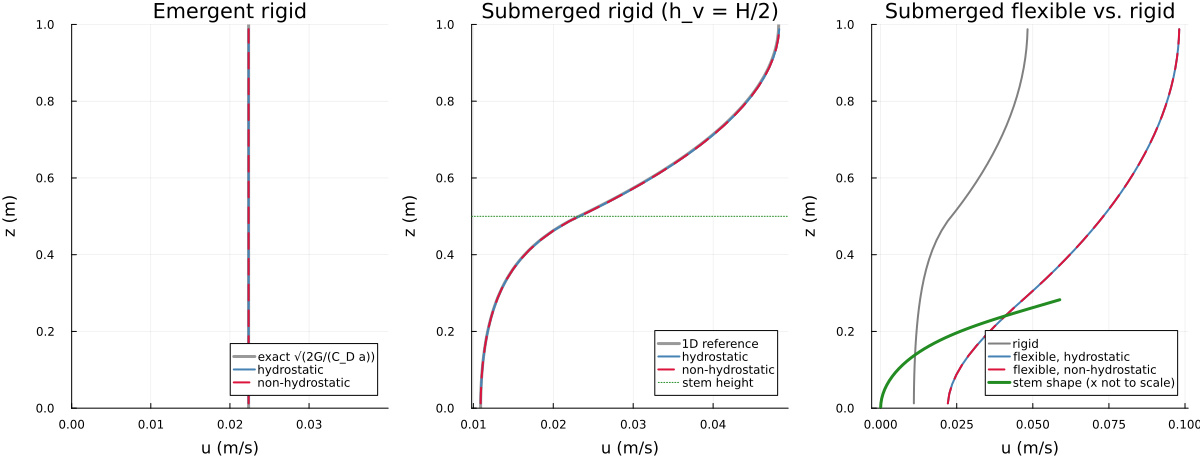
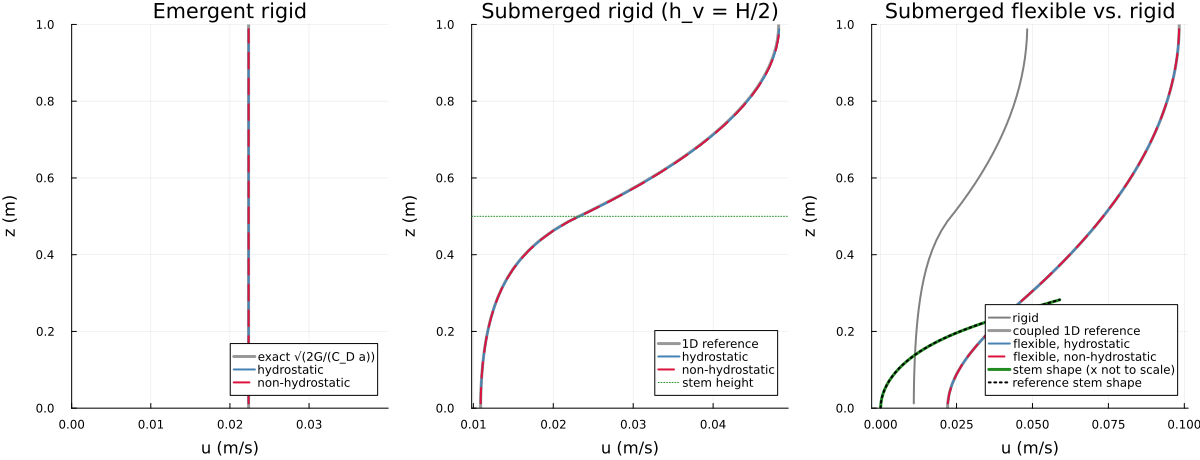
Vegetation: validate flexible stems against independent references
- elastica_reference_uniform (experiments/vegetation/cases.jl): the
  continuous elastica of a stem in a uniform current, integrated from the
  free tip with RK4 and shooting on the tip angle. The model's discrete
  elastica converges to it at second order for drag and tip position;
  within 0.9 % at 80 segments over Ca = 0.1 ... 1e4 (B <= 10), 0.4 % for
  B = 100 up to Ca = 3162. Test test_verify_elastica_against_independent_reference.
- flexible_canopy_reference: coupled 1D reference for a flexible canopy in a
  periodic channel (elastica in the velocity along the stem, iterated with
  the 1D momentum equation). The model matches it to 0.017 % in velocity and
  0.1 mm in tip position at steady state; errors converge with the grid.
  Test test_validate_flexible_canopy_against_coupled_reference.
- Posture solver: load continuation when Newton fails (it did from an upright
  stem at Ca >~ 3000) and a counter of non-converged postures
  (VegetationModel.posture_failures).
- Reconfiguration and channel figures show the references; README, plan and
  test documentation updated.

diff --git a/experiments/vegetation/README.md b/experiments/vegetation/README.md
@@ -48,6 +48,14 @@ Ca = ρ C_D b U² l³ / (2 EI) and the buoyancy number B = B_l l³ / EI.
   2010). The slope between Ca = 300 and 3000 is −0.333, and R Ca^(1/3) = 0.89. This is consistent with the asymptotic
   effective length of about 0.9 Ca^(−1/3) in Luhar & Nepf (2011); the coefficient is still to be checked against the
   paper.
+- **Independent reference** (points and dotted shapes in the figure): the continuous elastica, integrated from the free
+  tip with RK4 and shooting on the tip angle (`elastica_reference_uniform` in `cases.jl`). This is a different method
+  from the model's discrete segments and Newton solve. The model converges to it at second order in the number of
+  segments for the drag and the tip position. With 80 segments it agrees within 0.9 % over Ca = 0.1-10⁴ (B ≤ 10), and
+  within 0.4 % for B = 100 up to Ca = 3162; beyond that the shooting reference is badly conditioned. The reference gives
+  R Ca^(1/3) = 0.890 at large Ca.
+- **Robustness:** from an upright stem at Ca ≳ 3000 Newton alone did not converge. The posture solver now applies the
+  load in stages when Newton fails, and counts postures that still fail (`VegetationModel.posture_failures`).
 - **Buoyancy:** it keeps the stem upright until Ca exceeds roughly B and leaves the large-Ca asymptote unchanged, as
   described by Luhar & Nepf (2011).
 
@@ -69,6 +77,14 @@ Ca = ρ C_D b U² l³ / (2 EI) and the buoyancy number B = B_l l³ / EI.
   0.28 m of their 0.50 m length. The canopy offers less drag, so the depth-mean velocity is 0.067 m/s instead of
   0.027 m/s for the rigid canopy. In the steady state the total drag of a flexible patch balances the driving force
   (test `test_verify_flexible_patch_momentum_balance`: to 10⁻⁶ after 1400 s).
+- **Flexible canopy against an independent coupled reference** (`flexible_canopy_reference` in `cases.jl`): the
+  continuous elastica in the velocity along the stem, iterated with the 1D momentum equation, whose canopy drag is
+  1/2 C_D a cos²θ(z) u|u| below the tip height, until posture and profile are steady. Run from rest to the steady
+  state (7000 s; the posture-flow feedback makes the flexible canopy adjust about twice as slowly as the rigid one),
+  the model matches it in both modes: velocity within 1.7·10⁻⁵ m/s (0.017 % of the surface velocity), stem tip at
+  (0.3770, 0.2824) m against (0.3769, 0.2825) m. Started from the reference state, the errors converge with the grid:
+  5.4·10⁻⁵ and 1.6·10⁻⁵ m/s, tip (0.67, 0.60) mm and (0.16, 0.13) mm for nz = 20 and 40
+  (test `test_validate_flexible_canopy_against_coupled_reference`).
 - **Individual stems vs. patch:** 25 rigid stems at random positions, with the lateral spacing of the patch density,
   give the patch velocity to 10⁻⁶ (test `test_verify_individual_stems_match_patch`).
 
@@ -203,14 +219,17 @@ Scripts
 -------
 
 - `plot_vegetation_reconfiguration.jl`: single flexible stem, R(Ca); a few seconds.
-- `plot_vegetation_channel.jl`: periodic channel references and grid convergence; about 3 min.
+- `plot_vegetation_channel.jl`: periodic channel references (rigid and flexible) and grid convergence; about 12 min.
 - `plot_vegetation_patch.jl`: head loss and the flexible-patch animation; about 1 min.
 - `plot_vegetation_waves.jl`: wave damping against Dalrymple et al. (1984); about 20 min.
 - `plot_vegetation_lock_exchange.jl`: lock exchange through canopies over the whole tank, front scaling; about 10 min.
 - `plot_vegetation_lock_exchange_canopies.jl`: lock exchange into vegetation in the right half, patches and individual
   rigid and flexible stems, vegetation drawn; about 35 min.
-- `cases.jl`: shared settings and references: the 1D canopy profile, the reconfiguration helper, the wave flume with
-  Dalrymple's decay coefficient, the canopy lock exchange (also used by the tests).
+- `cases.jl`: shared settings and references (also used by the tests):
+  - the rigid 1D canopy profile and the coupled flexible canopy reference;
+  - the reconfiguration helper and the independent elastica reference;
+  - the wave flume with Dalrymple's decay coefficient;
+  - the canopy lock exchange.
 - `run_oscillating_flow_with_flexible_vegetation.jl`: ported to the new model; qualitative (no reference).
 
 Output goes to `output_barotropic/vegetation_figures/`; the figures here are copies, the GIF reduced to every second

diff --git a/test/TESTS_TECHNICAL_DOCUMENTATION.md b/test/TESTS_TECHNICAL_DOCUMENTATION.md
@@ -592,7 +592,10 @@ $N$ straight segments, angles at the segment midpoints, curvature at the nodes (
 $\theta_m=\theta_{m-1}+\kappa_{m-1}\Delta s$, second order). The segments are split at the cell boundaries; a piece in row
 $k$ uses the velocity of that row, and the same pieces load the stem and, with the opposite sign, the fluid (exact
 momentum exchange; a rigid patch gives exactly $\tfrac12C_Da\,u|u|$ per unit volume, $a=nb$). The posture is solved
-with Newton's method (finite-difference Jacobian, backtracking), warm-started every step. Stem parts above the free
+with Newton's method (finite-difference Jacobian, backtracking), warm-started every step. If Newton fails (e.g. from an
+upright stem at $Ca\gtrsim3000$), the load is applied in stages (velocity times $\sqrt{\lambda}$, $\lambda=1/n\ldots1$, with
+$n=8, 32, 128$) from the start posture; postures that still do not converge are counted in
+`VegetationModel.posture_failures`. Stem parts above the free
 surface carry no load; the vertical drag component is not applied to $w$.
 
 The drag enters the u predictor explicitly, from the velocities of time level n. It is monotone for
@@ -1308,6 +1311,22 @@ $\nabla^2p=-\pi^2(1/L^2+1/(H-d)^2)\,p$ ($L=2$ m, $H=1$ m, $d=0.25$ m). The maske
 - `test_validate_flexible_stem_reconfiguration`: $R=F/F_{rigid}\to1$ for $Ca=0.1$; slope of $\log R$ against
   $\log Ca$ between $Ca=300$ and $3000$ within 0.02 of $-1/3$ (observed $-0.333$); buoyancy number $B=100$ keeps the
   stem nearly rigid at $Ca=10$ ($R>0.95$), without buoyancy $R<0.6$.
+- `test_verify_elastica_against_independent_reference`: single stem in a uniform current against the continuous elastica
+  integrated independently from the tip (RK4, 20000 steps, shooting on the tip angle; `elastica_reference_uniform`).
+  In a uniform current the loads depend on $\theta$ only, so the tip angle is the only unknown; the physical root is the
+  first sign change of $\theta(0)$ below $\theta_{tip}=\pi/2$. Cases $(Ca,B)=(1,0),(100,0),(1000,0),(300,30)$: order
+  above 1.8 in the number of segments for $R$ and the tip position, $|R/R_{ref}-1|<3\cdot10^{-3}$ and tip error below
+  $10^{-3}l$ at 80 segments (observed $5\cdot10^{-6}$ to $1.9\cdot10^{-3}$). Over $Ca=0.1\ldots10^4$ the model with 80
+  segments agrees within 0.9 % ($B\le10$) and within 0.4 % for $B=100$ up to $Ca=3162$; beyond that the shooting
+  reference is badly conditioned. The reference gives $R\,Ca^{1/3}=0.890$ at large $Ca$.
+- `test_validate_flexible_canopy_against_coupled_reference`: flexible submerged canopy in a periodic channel
+  ($h_v=H/2$, $a=4$ 1/m, $EI=2\cdot10^{-5}$ N m², constant $\nu$) against the independent coupled 1D reference
+  `flexible_canopy_reference`: the continuous elastica in the velocity along the stem, iterated with
+  $\nu u''=\tfrac12C_Da\cos^2\theta(z)\phi(z)u|u|-G$ until posture and profile are steady (converged: doubling its
+  resolution changes $u$ by $3\cdot10^{-8}$ m/s). The model starts from the reference state and runs 1000 s (from rest it
+  needs about 6000 s; at 3000 s the error was still $2\cdot10^{-4}$ m/s). Velocity error below $10^{-4}$ m/s and tip error
+  below 1.5 mm at $n_z=20$, and both at least halved at $n_z=40$ (observed $5.4\cdot10^{-5}$ and $1.6\cdot10^{-5}$ m/s,
+  tip (0.67, 0.60) mm and (0.16, 0.13) mm; surface velocity 0.098 m/s, deflected height 0.283 m).
 - `test_validate_emergent_rigid_canopy_uniform_velocity`: periodic channel, body force $G$; $U=\sqrt{2G/(C_Da)}$ exact,
   observed $4\cdot10^{-12}$, both modes.
 - `test_validate_submerged_rigid_canopy_profile`: $h_v=H/2$, constant $\nu$; against the 1D reference

diff --git a/docs/plan_issue_8_vegetation.md b/docs/plan_issue_8_vegetation.md
@@ -203,6 +203,10 @@ turbulence model allows).
   - R9 lock exchange through emergent canopies: triangular currents and the approach to x_f proportional to t^(2/3).
     The exponent law is derived here; the toe velocity and regime criteria of Tanino, Nepf & Kulis (2005) are still
     to be compared (the author manuscript could not be downloaded).
+- **Flexible stems validated** against independent references: the continuous elastica integrated from the tip (single
+  stem, Ca = 0.1-10⁴, with buoyancy; second order, within 0.9 % at 80 segments) and a coupled 1D reference for a
+  flexible canopy in channel flow (velocity within 0.017 %, tip within 0.1 mm). Load continuation added to the posture
+  solver (Newton alone failed from an upright stem at Ca >~ 3000).
 - **Open:** dynamic flexible stems (waves, oscillating flow); vegetation turbulence (Nepf 1999); comparison with the
   flume data of Dunn et al. (1996) once the report is available; Luhar & Nepf (2011) coefficient check; the fully
   implicit free surface damps waves by about 2 pi²/N per period (a theta scheme would need time-averaged transports in
